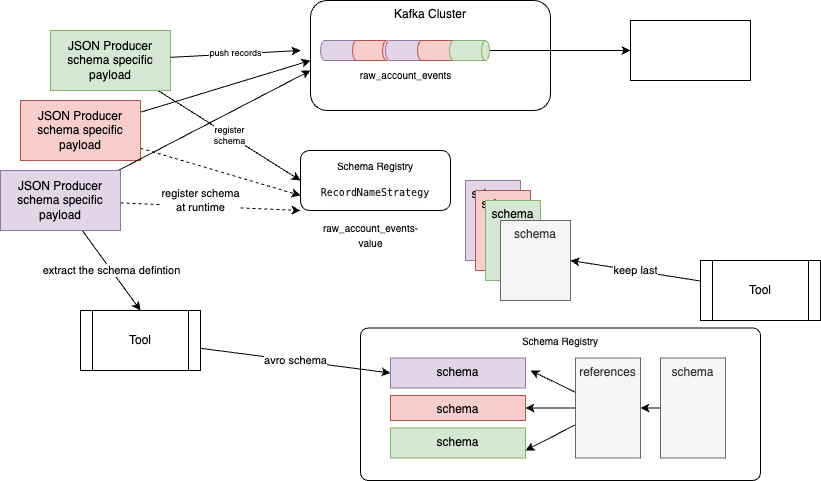
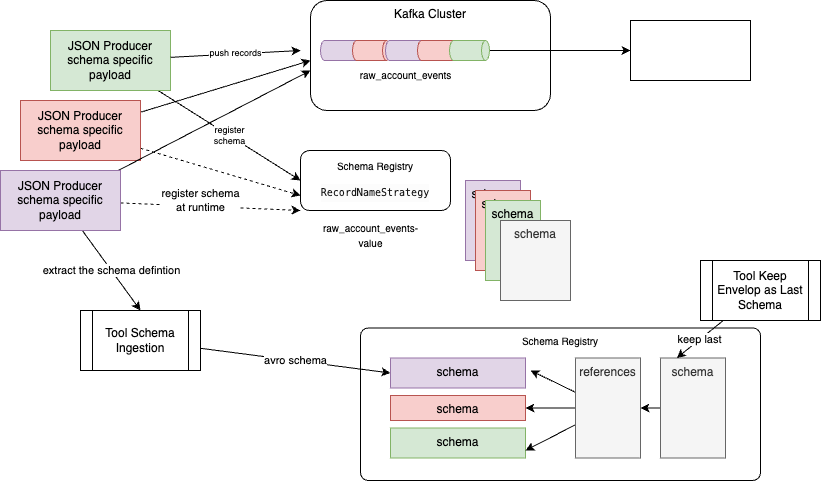
add schema ref image

diff --git a/code/flink-sql/07-2-raw-to-multiple-types/README.md b/code/flink-sql/07-2-raw-to-multiple-types/README.md
@@ -6,12 +6,12 @@ This demonstration is related to [07-1-multiple-event-types](../07-1-multiple-ev
 
 The challenge is related to Confluent Cloud Flink, which loads the last version of the topic schema to build is table view. With current way of managing the schemas, a `select * from raw_account_events` in Flink SQL will fail when deserializing a record with the wrong schema.
 
-The demonstration tries to rebuild this context and present a way to be able to use Flink SQL to do a schema transformation from this raw topic.
+The demonstration tries to rebuild this context and presents a way to be able to use Flink SQL to do a schema transformation from this raw topic.
 
-1. Registers three event-type schemas as versions of one `{topic}-value` subject (compatibility NONE), by using producer code.
-2. Produces each type with a **pinned schema id** (`use.schema.id`) so the wire prefix identifies the shape
-3. Optionally consumes those bytes while **ignoring** Schema Registry
-4. Define a last version schema that support the union of each possible payload definitions.
+1. Registers three event-type schemas as versions of one `{topic}-value` subject (compatibility NONE), by using producer code. This is the illustration of figure above.
+2. Produces each type with a schema id (`use.schema.id`) so the wire prefix identifies the shape.
+3. Optionally consumes those bytes while ignoring Schema Registry. Or load dynamically the schema using the magic bytes.
+4. Define a last version schema that supports the union of each possible payload definitions. This is applying the same concepts as in [07-1-multiple-event-types/](../07-1-multiple-event-types/)
 4. Uses Flink to get the records, transform it and writes the typed Avro-union sink
 
 Domain: the same **account lifecycle** events as 07-1 (DeviceSwap, Subscription, DeviceClose).
@@ -27,11 +27,13 @@ Three incompatible JSON schema **versions** on one TopicNameStrategy subject (wi
 | 07-1 | One Avro envelope + union at produce time | `account_events` Avro union |
 | 07-2 | One subject, three incompatible JSON versions (`NONE`) + pin schema ids → Flink normalizes | Same `account_events` Avro union |
 
-Without pinning schema ids, a TopicNameStrategy serializer would always use the **latest** version — so DeviceSwap/Subscription/DeviceClose would not each embed their own id.
+Without pinning schema ids, a TopicNameStrategy serializer would always use the **latest** version.
 
 Do not run 07-1 and 07-2 at the same time: both use the sink topic `account_events`.
 
 ## Schema Registry (source)
+
+Current constraints:
 
 | Setting | Value |
 | --- | --- |
@@ -42,7 +44,7 @@ Do not run 07-1 and 07-2 at the same time: both use the sink topic `account_even
 
 Schema `title` on each model (e.g. `io.confluent.flink.multievent.DeviceSwapEvent`) is for SR UI readability only — it is **not** the subject name.
 
-Each message is still the same logical envelope JSON (so Flink paths stay stable). After the wire prefix, the body looks like:
+Each message is still the same logical envelope JSON. The body looks like:
 
 ```json
 {
@@ -91,9 +93,47 @@ WITH (
 );
 ```
 
+## Adding the same last version for the raw_account_events-value schema to include references to other schemas.
+
+The principle is to define an envelop schema where the variable fields are any of existing schemas. The following demonstrates this structure:
+
+```json
+    "EventDetail": {
+      "anyOf": [
+        {
+          "$ref": "DeviceSwapDetail"
+        },
+        {
+          "$ref": "SubscriptionDetail"
+        },
+        {
+          "$ref": "DeviceCloseDetail"
+        }
+      ],
+      "title": "EventDetail"
+    }
+```
+
+The 3 referenced schemas are uploaded separatly into the schema registry
+
+![](./docs/event-detail-schemas.png)
+
+And the references are built as references definitions:
+
+![](./docs/schema-refs.png)
+
+### Managing the schemas
+
+The current approach is to get the producers, at runtime, to upload new schema to the schema registry. This practices need to chanage, but as the impact is deep into the current code based, it is possible to adapt the development process with the following steps:
+
+* Extract the producer schema definition as avro schema
+* Publish the avro schema as independant element into the schema registry
+
+![](./docs/multi-producers-schema-mgt.drawio.png)
+
 ## Logic to transform
 
-Get the value bytes, skip the Confluent wire prefix (magic + schema id), then extract fields into the Avro union. See [dml.raw_to_account_events.sql](./cc-flink/dml.raw_to_account_events.sql):
+See [dml.raw_to_account_events.sql](./cc-flink/dml.raw_to_account_events.sql):
 
 ```sql
 with parsed as(